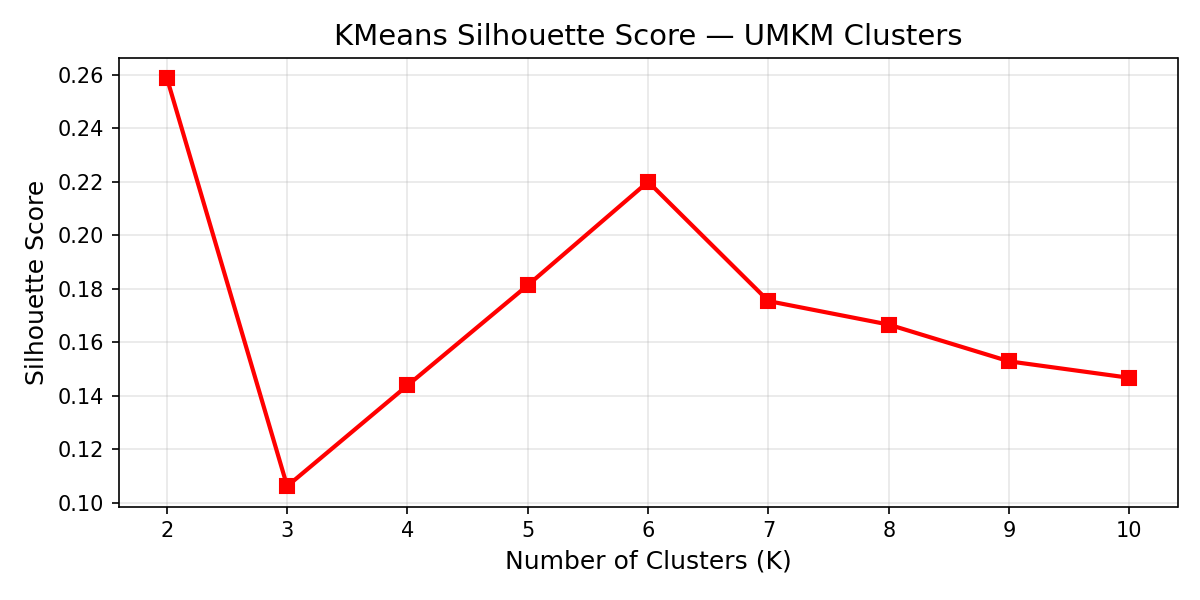
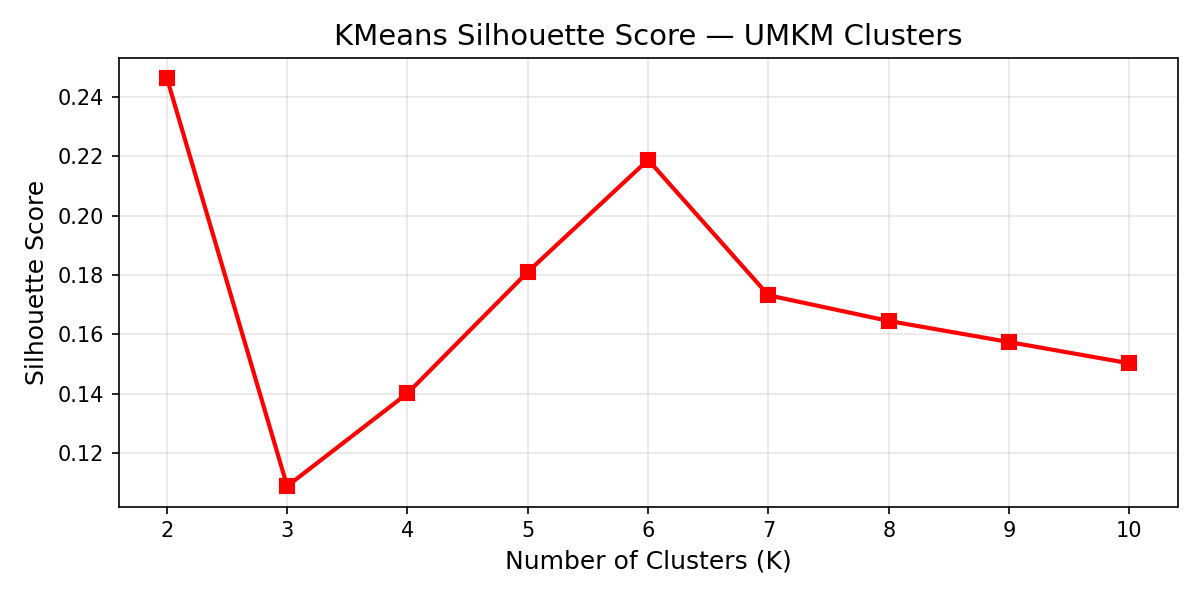
edited umkm.blade.php

diff --git a/resources/views/dashboard/umkm.blade.php b/resources/views/dashboard/umkm.blade.php
@@ -192,36 +192,82 @@
                 @endforelse
             </div>
 
-            <!-- Messages & Quick Actions (Right 1/3) -->
+            <!-- Project History & Quick Actions (Right 1/3) -->
             <div class="space-y-8">
                 <div>
-                    <h2 class="font-display text-2xl font-bold text-[#1E3A8A] mb-6">Pesan Terbaru</h2>
-                    <div class="bg-white rounded-[2.5rem] border border-[#2563EB]/5 shadow-sm divide-y divide-[#2563EB]/5">
-                        <!-- Message 1 -->
-                        <div class="p-5 flex gap-4 hover:bg-[#F8FAFC] transition-colors cursor-pointer">
-                            <img src="https://ui-avatars.com/api/?name=Alex&background=random" class="w-12 h-12 rounded-2xl shadow-sm">
-                            <div class="flex-grow overflow-hidden">
-                                <div class="flex justify-between items-center mb-1">
-                                    <h5 class="text-sm font-bold text-[#1E3A8A]">Alex Rivera</h5>
-                                    <span class="text-[10px] text-[#1E3A8A]/40 font-bold">10:45</span>
+                    <h2 class="font-display text-2xl font-bold text-[#1E3A8A] mb-6">Riwayat Proyek</h2>
+                    <div class="bg-white rounded-[2.5rem] border border-[#2563EB]/5 shadow-sm divide-y divide-[#2563EB]/5 overflow-hidden">
+                        @forelse($projects->take(3) as $project)
+                            @php
+                                $statusConfig = match ($project->status ?? 'open') {
+                                    'completed' => ['label' => 'Selesai', 'class' => 'bg-emerald-50 text-emerald-600'],
+                                    'pending_admin_approval' => ['label' => 'Menunggu Admin', 'class' => 'bg-indigo-50 text-indigo-600'],
+                                    'ready_for_review' => ['label' => 'Review UMKM', 'class' => 'bg-blue-50 text-blue-600'],
+                                    'in_progress' => ['label' => 'Berjalan', 'class' => 'bg-sky-50 text-sky-600'],
+                                    'hired' => ['label' => 'Siap Bayar', 'class' => 'bg-amber-50 text-amber-600'],
+                                    'waiting_confirmation' => ['label' => 'Menunggu Kreator', 'class' => 'bg-orange-50 text-orange-600'],
+                                    'revision' => ['label' => 'Revisi', 'class' => 'bg-purple-50 text-purple-600'],
+                                    'disputed' => ['label' => 'Dispute', 'class' => 'bg-red-50 text-red-600'],
+                                    'open' => ['label' => 'Terbuka', 'class' => 'bg-slate-100 text-slate-500'],
+                                    'applied' => ['label' => 'Ada Apply', 'class' => 'bg-[#EFF6FF] text-[#2563EB]'],
+                                    default => ['label' => ucfirst(str_replace('_', ' ', $project->status ?? 'open')), 'class' => 'bg-slate-100 text-slate-500'],
+                                };
+                                $progress = (int) ($project->progress_percentage ?? 0);
+                                $budget = (float) ($project->budget ?? 0);
+                            @endphp
+
+                            <a href="{{ route('projects.progress') }}#project-{{ $project->id }}" class="p-5 block hover:bg-[#F8FAFC] transition-colors">
+                                <div class="flex items-start justify-between gap-3 mb-3">
+                                    <div class="min-w-0">
+                                        <h5 class="text-sm font-bold text-[#1E3A8A] line-clamp-1">{{ $project->title }}</h5>
+                                        <p class="text-[11px] text-[#1E3A8A]/45 font-bold mt-1">
+                                            {{ optional($project->updated_at)->diffForHumans() ?? 'Baru dibuat' }}
+                                        </p>
+                                    </div>
+                                    <span class="shrink-0 px-3 py-1 rounded-full text-[10px] font-black uppercase tracking-wider {{ $statusConfig['class'] }}">
+                                        {{ $statusConfig['label'] }}
+                                    </span>
                                 </div>
-                                <p class="text-xs text-[#1E3A8A]/60 line-clamp-1 font-medium">Saya sudah mengirimkan draf pertama logonya...</p>
-                            </div>
-                        </div>
-                        <!-- Message 2 -->
-                        <div class="p-5 flex gap-4 hover:bg-[#F8FAFC] transition-colors cursor-pointer">
-                            <img src="https://ui-avatars.com/api/?name=Sarah&background=random" class="w-12 h-12 rounded-2xl shadow-sm">
-                            <div class="flex-grow overflow-hidden">
-                                <div class="flex justify-between items-center mb-1">
-                                    <h5 class="text-sm font-bold text-[#1E3A8A]">Sarah Wijaya</h5>
-                                    <span class="text-[10px] text-[#1E3A8A]/40 font-bold">Kemarin</span>
+
+                                <div class="space-y-3">
+                                    <div>
+                                        <div class="flex justify-between text-[11px] font-bold text-[#1E3A8A]/50 mb-1.5">
+                                            <span>Progress</span>
+                                            <span>{{ $progress }}%</span>
+                                        </div>
+                                        <div class="h-2 rounded-full bg-slate-100 overflow-hidden">
+                                            <div class="h-full bg-[#2563EB] rounded-full" style="width: {{ min(100, max(0, $progress)) }}%"></div>
+                                        </div>
+                                    </div>
+
+                                    <div class="grid grid-cols-2 gap-3 text-xs">
+                                        <div>
+                                            <p class="text-[#1E3A8A]/40 font-bold">Budget</p>
+                                            <p class="font-display font-bold text-[#1E3A8A] mt-0.5">{{ $budget > 0 ? 'Rp ' . number_format($budget, 0, ',', '.') : 'Belum diatur' }}</p>
+                                        </div>
+                                        <div class="min-w-0">
+                                            <p class="text-[#1E3A8A]/40 font-bold">Kreator</p>
+                                            <p class="font-display font-bold text-[#1E3A8A] mt-0.5 truncate">{{ $project->selected_creative_name ?: 'Belum dipilih' }}</p>
+                                        </div>
+                                    </div>
                                 </div>
-                                <p class="text-xs text-[#1E3A8A]/60 line-clamp-1 font-medium">Kapan kita bisa meeting untuk bahas konsepnya?</p>
+                            </a>
+                        @empty
+                            <div class="p-6 text-center">
+                                <div class="w-14 h-14 rounded-2xl bg-[#EFF6FF] text-[#2563EB] flex items-center justify-center mx-auto mb-4">
+                                    <svg class="w-7 h-7" fill="none" stroke="currentColor" viewBox="0 0 24 24"><path stroke-linecap="round" stroke-linejoin="round" stroke-width="2" d="M9 5H7a2 2 0 00-2 2v12a2 2 0 002 2h10a2 2 0 002-2V7a2 2 0 00-2-2h-2M9 5a2 2 0 002 2h2a2 2 0 002-2M9 5a2 2 0 012-2h2a2 2 0 012 2" /></svg>
+                                </div>
+                                <h5 class="text-sm font-bold text-[#1E3A8A] mb-2">Belum ada proyek</h5>
+                                <p class="text-xs text-[#1E3A8A]/55 font-medium leading-6 mb-5">Riwayat proyek UMKM kamu akan tampil di sini setelah proyek pertama dibuat.</p>
+                                <a href="{{ route('projects.create') }}" class="inline-flex items-center justify-center px-5 py-2.5 bg-[#1E3A8A] text-white text-xs font-bold rounded-xl hover:bg-[#2563EB] transition-colors">Buat Proyek</a>
                             </div>
-                        </div>
-                        <div class="p-4 text-center">
-                            <a href="#" class="text-xs font-bold text-[#2563EB] hover:underline">Semua Pesan</a>
-                        </div>
+                        @endforelse
+
+                        @if($projects->isNotEmpty())
+                            <div class="p-4 text-center">
+                                <a href="{{ route('projects.progress') }}" class="text-xs font-bold text-[#2563EB] hover:underline">Lihat Semua Riwayat</a>
+                            </div>
+                        @endif
                     </div>
                 </div>
 

diff --git a/resources/views/admin/users/index.blade.php b/resources/views/admin/users/index.blade.php
@@ -163,23 +163,23 @@
                             <td class="px-8 py-6">
                                 <div class="flex items-center gap-2">
                                     <!-- Warn Button -->
-                                    <button onclick="openWarnModal(@js((string) $u->id), @js($u->name))" class="p-2.5 bg-amber-50 text-amber-600 rounded-xl hover:bg-amber-600 hover:text-white transition-all shadow-sm" title="Beri Peringatan">
-                                        <i class="fas fa-exclamation-triangle"></i>
+                                    <button onclick="openWarnModal(@js((string) $u->id), @js($u->name))" class="group flex h-11 w-11 items-center justify-center rounded-xl bg-amber-50 shadow-sm ring-1 ring-amber-100 transition-all hover:bg-amber-100 hover:shadow-md" title="Beri Peringatan" aria-label="Beri peringatan">
+                                        <img src="{{ asset('images/assets/warning.png') }}" alt="" class="h-6 w-6 object-contain transition-transform group-hover:scale-110">
                                     </button>
                                     
                                     <!-- Suspend/Activate Toggle -->
                                     @if($u->status === 'suspended')
                                         <form action="{{ route('admin.users.activate', $u->id) }}" method="POST">
                                             @csrf
-                                            <button type="submit" class="p-2.5 bg-emerald-50 text-emerald-600 rounded-xl hover:bg-emerald-600 hover:text-white transition-all shadow-sm" title="Aktifkan Kembali">
+                                            <button type="submit" class="flex h-11 w-11 items-center justify-center rounded-xl bg-emerald-50 text-emerald-600 shadow-sm ring-1 ring-emerald-100 transition-all hover:bg-emerald-600 hover:text-white hover:shadow-md" title="Aktifkan Kembali" aria-label="Aktifkan kembali">
                                                 <i class="fas fa-check"></i>
                                             </button>
                                         </form>
                                     @else
                                         <form action="{{ route('admin.users.suspend', $u->id) }}" method="POST" onsubmit="return confirm('Apakah Anda yakin ingin menangguhkan akun ini?')">
                                             @csrf
-                                            <button type="submit" class="p-2.5 bg-red-50 text-red-600 rounded-xl hover:bg-red-600 hover:text-white transition-all shadow-sm" title="Tangguhkan Akun">
-                                                <i class="fas fa-ban"></i>
+                                            <button type="submit" class="group flex h-11 w-11 items-center justify-center rounded-xl bg-red-50 shadow-sm ring-1 ring-red-100 transition-all hover:bg-red-100 hover:shadow-md" title="Tangguhkan Akun" aria-label="Tangguhkan akun">
+                                                <img src="{{ asset('images/assets/delete.png') }}" alt="" class="h-6 w-6 object-contain transition-transform group-hover:scale-110">
                                             </button>
                                         </form>
                                     @endif

diff --git a/resources/views/recommendations/creative-workers.blade.php b/resources/views/recommendations/creative-workers.blade.php
@@ -64,7 +64,7 @@
                         Rekomendasi Kreator AI untuk UMKM Kamu
                     </h1>
                     <p class="text-[#1E3A8A]/65 font-medium text-lg leading-relaxed">
-                        Masukkan data UMKM, kirim ke Flask ML service, lalu ambil daftar creative worker yang paling cocok berdasarkan cluster dan kesamaan skill.
+                        Masukkan data UMKM, lalu ambil daftar creative worker yang paling cocok berdasarkan cluster dan kesamaan skill.
                     </p>
                 </div>
 